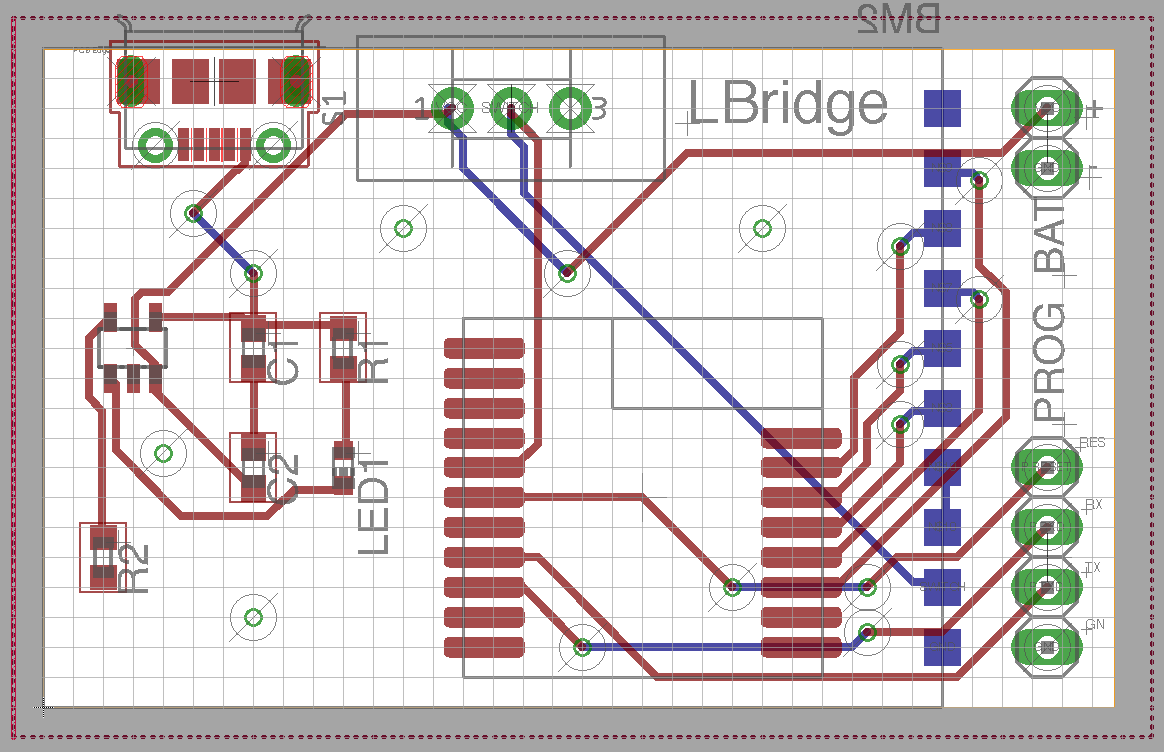
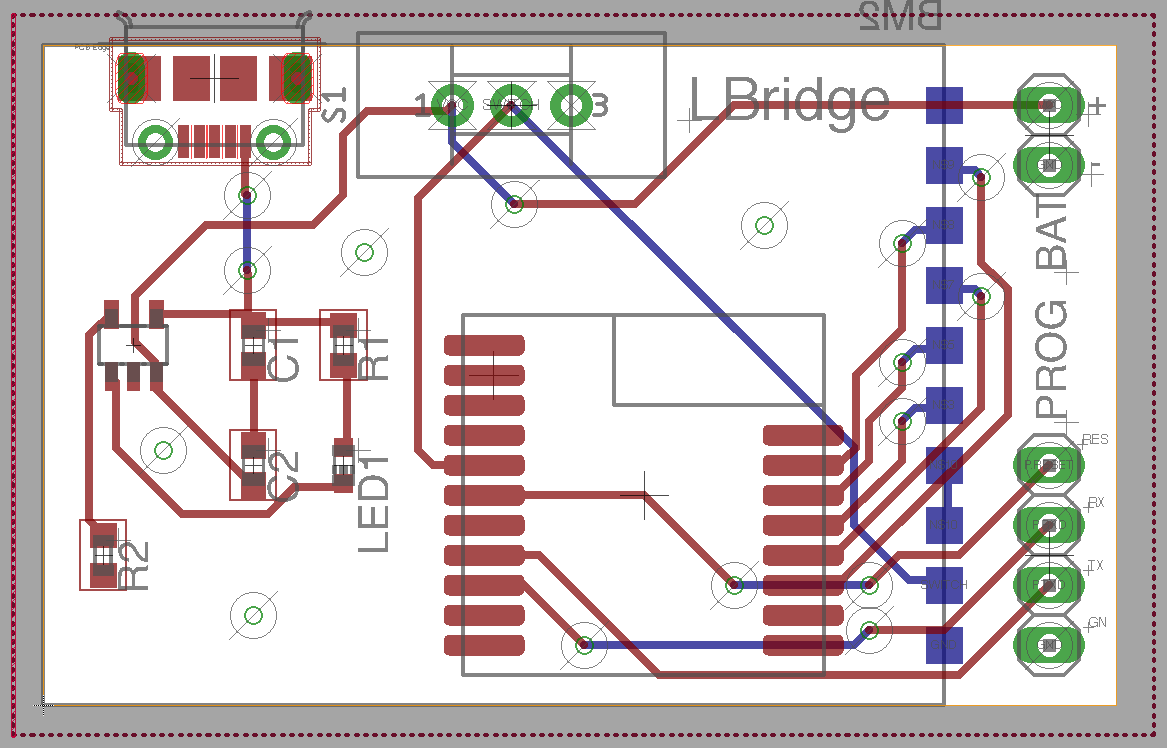
minor re-wireing, updated pic, specified usb connector in description

diff --git a/README.md b/README.md
@@ -13,11 +13,12 @@ Made with free version of EAGLE for BM019 and RFDuino.
 http://www.solutions-cubed.com/bm019/  
 http://www.warburtech.co.uk/products/modules/solutions.cubed.bm019.serial.to.nfc.converter/
 * RFduino RFD22301  
-[mouser.de](https://www.mouser.de/ProductDetail/RF-Digital-Wireless/RFD22301/?qs=sGAEpiMZZMsrChSOYEGTCT%252bqHrbsfX8g2IB00KAX%252brY%3d)
+https://www.mouser.de/ProductDetail/RF-Digital-Wireless/RFD22301/
 * Lipo Charger IC MCP73831T-2ACI/OT
 * C1/C2: Capacitor 0603 4.7µF (measured 3.8µF)
 * R1: 330 Ohm
 * R2: 3kOhm (for ~333mA charging speed, default 2kOhm for ~500mA. Ic = 1000/R2)
 * red LED 0603
-* Sliding switch SPDT
+* Sliding switch SPDT (generic, I ordered Apem MHSS1105)
+* Molex 105017-0001 USB micro-B connector
 * USB programmer for the RFDuino (RFD22121), or any adapter with serial connection at 3.3V level
